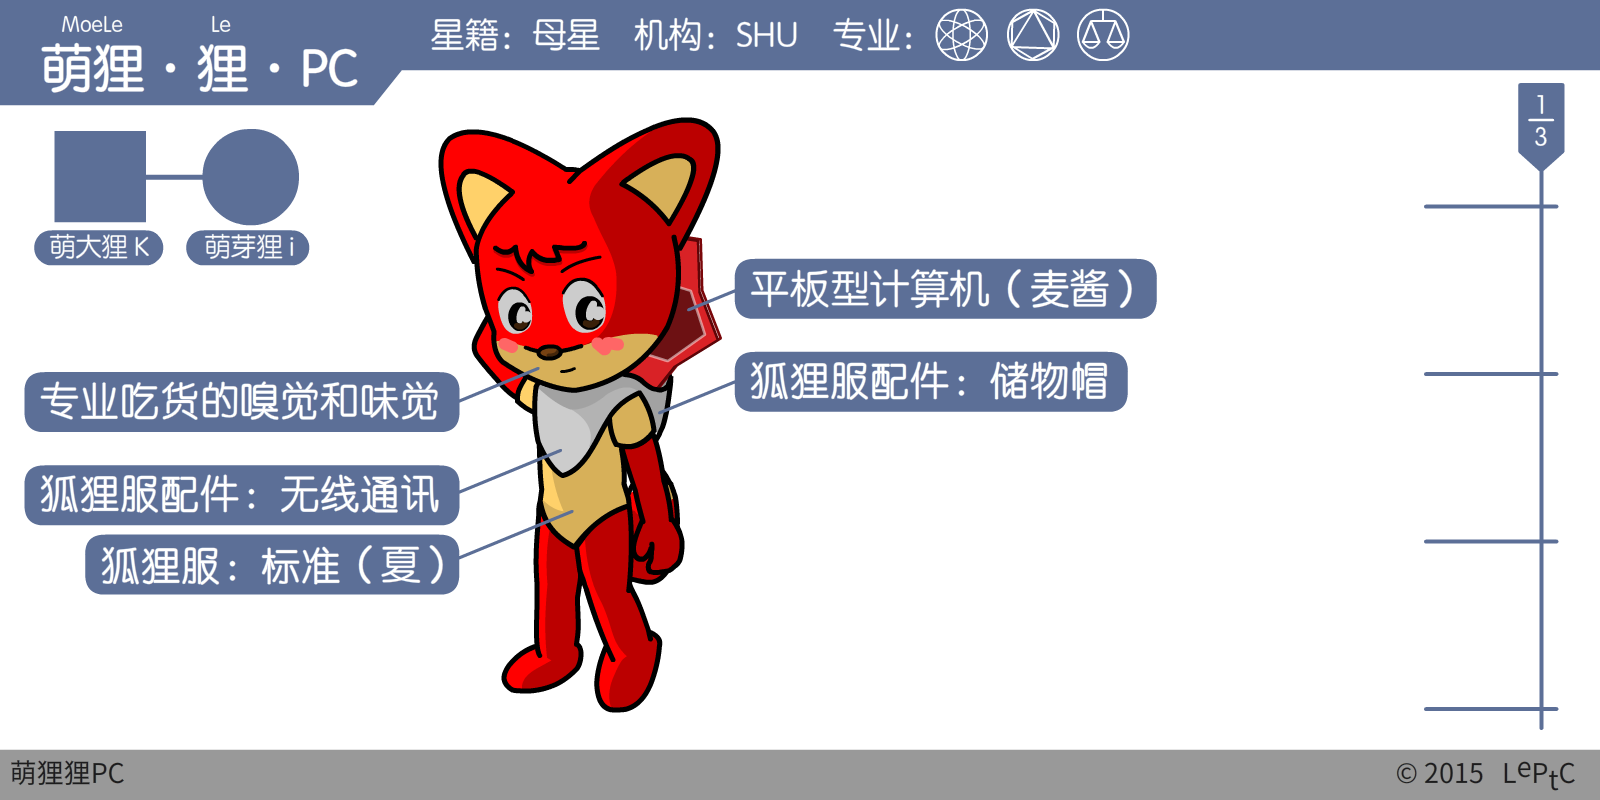
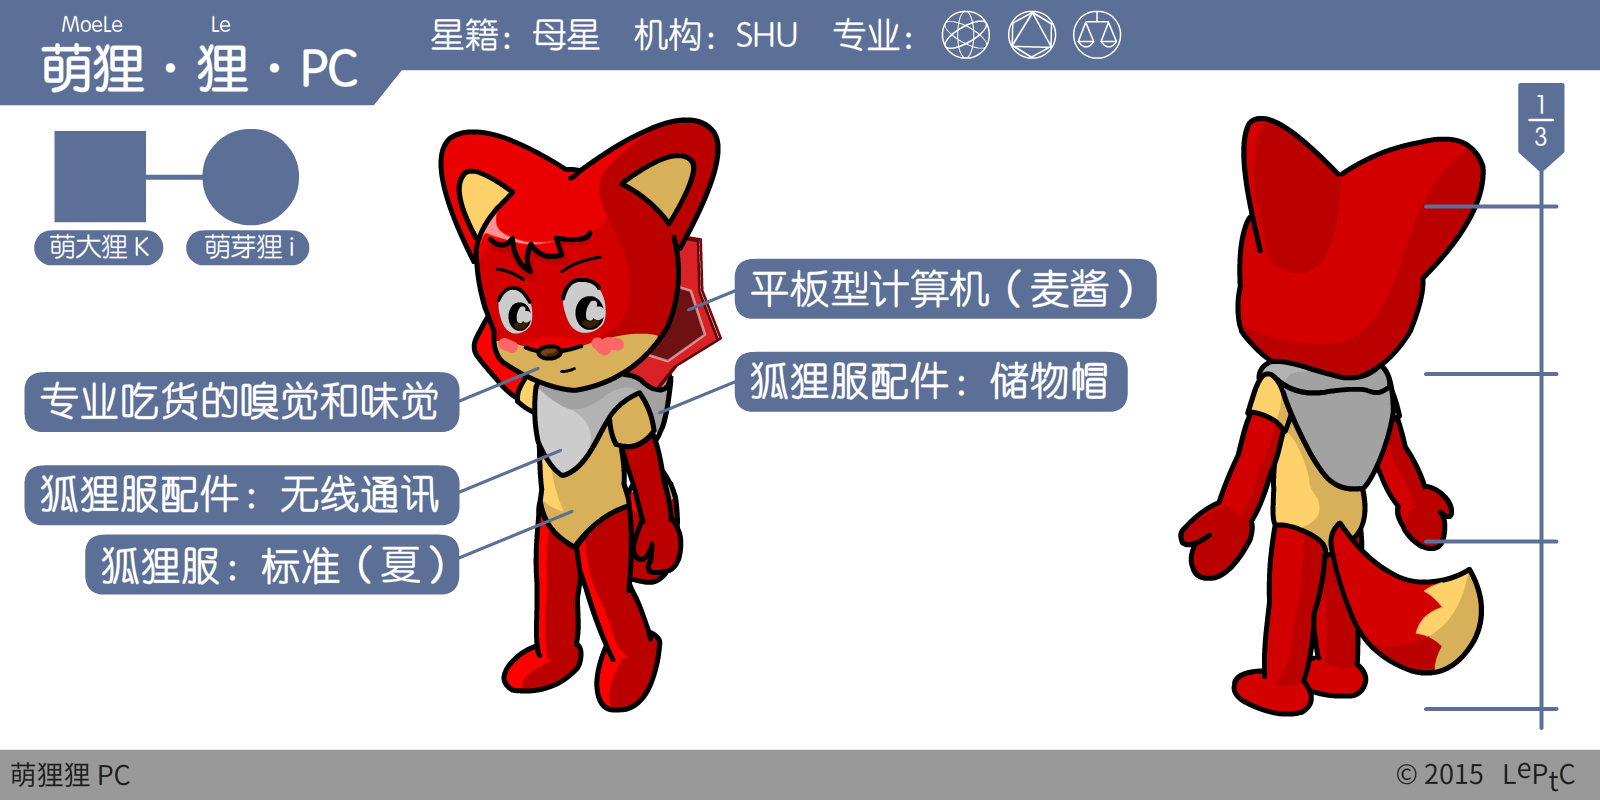
moele character fin

diff --git a/wiki/moele/index.html b/wiki/moele/index.html
@@ -11,15 +11,15 @@ title: 萌狸
 <div class="content">
 	<a title="萌狸狸"><img src="moelelepc.png" alt="萌狸狸" class="wiki" style="width: 100%;"></a>
 	<p>萌狸（MoeLe），<a href="/wiki/lename/">全名</a>：萌狸狸 PC。11942 年出生于狸星母星，父亲：<a href="/wiki/moedale/">萌大狸 K</a>，母亲：<a href="/wiki/moeyale/">萌芽狸 i</a>。<a href="/wiki/shu/">SHU</a> 物理、数学、法学专业学生。</p>
-  <p>爱好：最喜欢喝豆浆，尝遍<a href="/wiki/sternenhimmel/">星空市</a>的所有豆浆店，能够根据豆浆的温度和甜度判断豆浆的来源、制作的时间等。据称如果不喝豆浆就会做饿梦，然后就没有力气卖萌了…</p>
+  <p>爱好：喜欢喝豆浆，尝遍<a href="/wiki/sternenhimmel/">星空市</a>的所有豆浆店，能够根据豆浆的温度和甜度判断豆浆的来源、制作的时间等。如果不喝豆浆就会做饿梦，然后木有力气卖萌了…</p>
   <p>话风：喜欢把「的」说成「滴」，喜欢加「的说」。</p>
   <p>宠物：<a href="/wiki/matica/">麦酱</a></p>
-  <p>工作：收集自然界中的<a href="/wiki/questpig/">题猪</a>进行科学研究<s>，获得称号「虐猪狂人萌狸狸」</s>。</p>
-  <p>弱点：对频繁的急动度和科氏加速度有眩晕反应，表现为晕车、晕真空隧道、晕离心人工重力，但不会晕平稳飞行的亚音速飞行器。</p>
+  <p>工作：SHU 应用物理学计算密集型科研工作，同时业余时间喜欢收集自然界中的<a href="/wiki/questpig/">题猪</a>进行科学研究<s>，获得称号「虐猪狂人萌狸狸」</s>。</p>
+  <p>弱点：对频繁的急动度和科氏加速度有眩晕反应，表现为晕车、晕真空隧道、晕离心人工重力，但不会晕在近地大气层飞行的亚音速飞行器。</p>
 	<br />
 </div>
 
-{% include header.html param="成就" %}
+<!-- {% include header.html param="成就" %}
 
 <div class="content">
 <ol>
@@ -27,7 +27,7 @@ title: 萌狸
 	<li>12153 年<a href="/wiki/nobeleprize/">诺贝狸</a>物理学奖，发现钻石矿小行星，发明<a href="/wiki/collisionpoweredtransportball/">变轨弹球</a></li>
 	<li>12140 年<a href="/wiki/nobeleprize/">诺贝狸</a>数学奖，狸 PC 圆<a href="http://www.guokr.com/question/531381/">↗</a></li>
 </ol>
-</div>
+</div> -->
 
 {% include header.html param="出场作品" %}
 
@@ -36,4 +36,5 @@ title: 萌狸
 <ol>
 	<li><a href="/notsci/s2n1/">s2n1 钻石矿的小行星</a></li>
 </ol>
+<p><h3>其他：</h3></p>
 </div>

diff --git a/wiki/firele/index.html b/wiki/firele/index.html
@@ -11,6 +11,7 @@ title: 火狸
 <div class="content">
 	<a title="火狸"><img src="/css/picplace.png" alt="火狸" class="wiki" style="width: 200px;"></a>
 	<p>火狸（FireLe），<a href="/wiki/lename/">全名</a>：火狸狸 FF，出生于狸星系火星，<a href="/wiki/shu/">SHU</a> 物理、信息、历史专业学生，<a href="/wiki/moele/">萌狸</a>的朋友、同学、同事。</p>
+  <p>工作：SHU 应用物理学数据密集型科研工作，科学资料及数据库管理员，业余参与 SHU 最大的搜索引擎项目。</p>
 	<br />
 </div>
 

diff --git a/index.html b/index.html
@@ -67,6 +67,10 @@ title: LePtC
   <td style="color:#444">系列作品预计几个月生产一篇</td>
 </tr>
 <tr>
+  <td>2015.06.06</td>
+  <td><a href="/wiki/moele/">萌狸</a>人设插图完成</td>
+</tr>
+<tr>
   <td>2015.06.04</td>
   <td>看不懂系列 <a href="/popsci/s2p5/">s2p5</a> 战术手势-物理篇 发布 <a href="http://www.guokr.com/post/684563/">↗</a></td>
 </tr>
